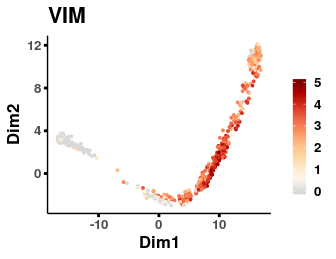
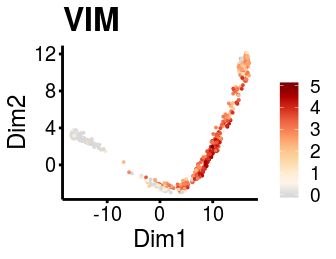
update expression plots

diff --git a/README.md b/README.md
@@ -165,7 +165,7 @@ that do not have a distinct bimodal “on-off” distribution are then
 removed. This step may take 2 minutes for 2000 cells using 3 cores.
 
 ``` r
-# binarize gene expression using gene-specific thresholds
+### binarize gene expression using gene-specific thresholds
 sce_p1 <- binarize_exp(sce_p1, ncores = 3)
 ```
 
@@ -182,8 +182,8 @@ global threshold.
 #abline(v=0.2, col="blue")}
 
 ###In this example, we choose 0.2 (blue line, also set as default) as the threshold.
-#bn_cutoff <- 0.2
-#sce_p1 <- binarize_exp(sce_p1, fix_cutoff = TRUE, binarize_cutoff = bn_cutoff)
+# bn_cutoff <- 0.2
+# sce_p1 <- binarize_exp(sce_p1, fix_cutoff = TRUE, binarize_cutoff = bn_cutoff)
 ```
 
 ### I-2. Fit logistic regression & estimate switching time
@@ -241,7 +241,7 @@ plots if
 needed.
 
 ``` r
-plot_gene_exp(sce_p1, geneofi = "VIM", reduction = "monocleRD", downsample = F)
+plot_gene_exp(sce_p1, gene = "VIM", reduction = "monocleRD", downsample = F)
 ```
 
 <img src="man/figures/README-plotexp-1.png" style="display: block; margin: auto;" />
@@ -274,7 +274,7 @@ switching time.
 
 ``` r
 plot_pathway_density(switch_pw_reduce[1:10,], sg_pw, orderbytime = TRUE)
-#> Picking joint bandwidth of 2.5
+#> Picking joint bandwidth of 2.49
 ```
 
 <img src="man/figures/README-pathways_ridge_plots-1.png" style="display: block; margin: auto;" />
@@ -361,7 +361,7 @@ Similarly, we can check the gene expression plots for the two paths.
 
 ``` r
 gn <- "DCN"
-p <- plot_gene_exp(sce_p1, geneofi = gn, reduction = "monocleRD", 
+p <- plot_gene_exp(sce_p1, gene = gn, reduction = "monocleRD", 
                    downsample = FALSE, fitting = TRUE)
 #> Warning: glm.fit: algorithm did not converge
 ```
@@ -369,7 +369,7 @@ p <- plot_gene_exp(sce_p1, geneofi = gn, reduction = "monocleRD",
 <img src="man/figures/README-plot_exp1-1.png" style="display: block; margin: auto;" />
 
 ``` r
-p <- plot_gene_exp(sce_p2, geneofi = gn, reduction = "monocleRD", 
+p <- plot_gene_exp(sce_p2, gene = gn, reduction = "monocleRD", 
                    downsample = FALSE, fitting = TRUE)
 ```
 
